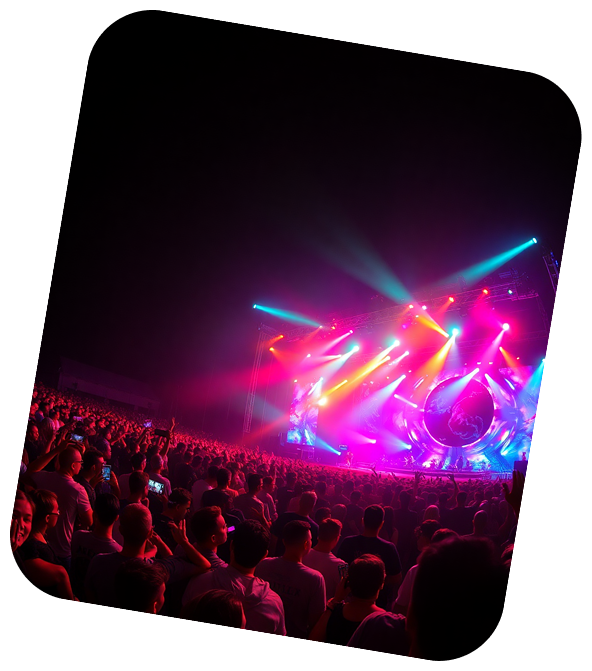
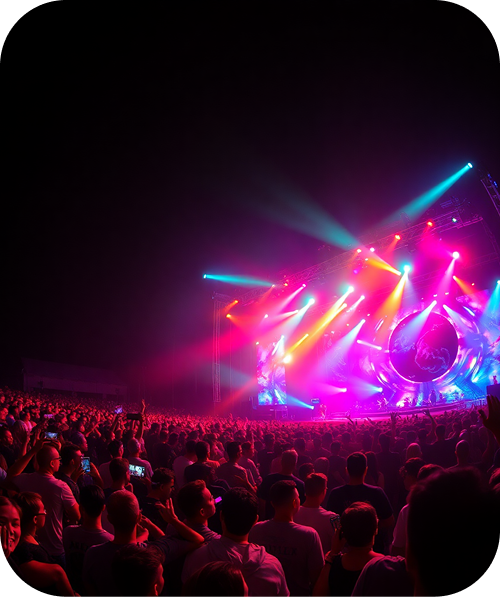
hero

diff --git a/src/pages/home.jsx b/src/pages/home.jsx
@@ -1,6 +1,11 @@
 import React from 'react';
 import "./home.css"
 import Navbar from '../components/navbar';
+import Bluebtn from '../components/bluebtn';
+import heroimg from "../assets/heroimg.png"
+import DecryptedText from "../component/DecryptedText";
+import ill from "../assets/heroill.svg"
+import rec from "../assets/Rectangle 18.svg"
 
 const Home = () => {
     return ( 
@@ -9,9 +14,31 @@ const Home = () => {
 
         <section className="hero">
             <div className="herotxt">
-                <h1>Your Next <span>Adventure</span> Awaits</h1>
+  
+                      <DecryptedText
+                       text="Your Next
+                            Adventure
+                            Awaits"
+                        animateOn="view"
+                        revealDirection="start"
+                        sequential
+                    className="herolabel"
+
+                        useOriginalCharsOnly={false}
+                        />
+                    
                 <p>Book tickets to concerts, festivals, workshops, and cultural events. Join thousands of happy attendees!</p>
-                
+                <div className="herobtns">
+                    <Bluebtn style="blue" txt="Explore Events "/>
+                    <Bluebtn style="grey" txt="How it works "/>
+
+                </div>
+                <img src={rec} alt="" className='rec' />
+
+            </div>
+            <div className="heroimg">
+                <img src={heroimg} alt="" />
+                <img className='ill' src={ill} alt="" />
             </div>
             
         </section>

diff --git a/src/pages/home.css b/src/pages/home.css
@@ -5,11 +5,84 @@
     font-family: "Outfit";
 }
 
-body{
+#root{
     display: flex;
 width: 100%;
 padding-top: 50px;
 flex-direction: column;
 align-items: center;
 gap: 100px;
+overflow-x: hidden;
+}
+
+.hero{
+    display: flex;
+padding: 0 69px;
+justify-content: space-between;
+align-items: center;
+align-self: stretch;
+position: relative;
+width: 100%;
+}
+
+.herotxt{
+    display: flex;
+width: 58%;
+flex-direction: column;
+align-items: flex-start;
+gap: 24px;
+position: relative;
+}
+
+.herolabel{
+    color: #111827;
+font-family: Outfit;
+font-size: 102.369px;
+font-style: normal;
+font-weight: 400;
+line-height: 102.369px; /* 100% */
+letter-spacing: -0.711px;
+}
+
+.herotxt span{
+    color: #2F91F8;
+font-family: Outfit;
+font-size: 102.369px;
+font-style: normal;
+font-weight: 600;
+line-height: 102.369px;
+letter-spacing: -0.711px;
+}
+
+.herotxt p{
+    color: #4B5563;
+font-family: Outfit;
+font-size: 23.865px;
+font-style: normal;
+font-weight: 400;
+line-height: 33.41px; /* 140% */
+letter-spacing: -0.597px;
+}
+.herobtns{
+    display: flex;
+align-items: flex-start;
+gap: 16px;
+}
+.heroimg{
+    position: relative;
+    scale: 0.7;
+    width: 40%;
+}
+
+.ill{
+   position: absolute;
+        left: -165px;
+    z-index: -1;
+    top: -88px;
+    scale: 1.2;
+}
+
+.rec{
+    position: absolute;
+    
 }

diff --git a/src/components/bluebtn.css b/src/components/bluebtn.css
@@ -1,0 +1,61 @@
+*{
+    box-sizing: border-box;
+    padding: 0;
+    margin: 0;
+}
+
+.blue{
+    display: flex;
+padding: 18px 32px 19px 32px;
+justify-content: center;
+align-items: center;
+gap: 11px;
+border-radius: 9999px;
+background: #2F91F8;
+
+}
+
+.blue h3{
+color: #FFF;
+text-align: center;
+font-family: Outfit;
+font-size: 18px;
+font-style: normal;
+font-weight: 400;
+line-height: 28px; /* 155.556% */
+letter-spacing: -0.5px;
+cursor: pointer;
+width: fit-content;
+transition: all 300ms ease;
+}
+
+.blue:hover{
+    transform: translateY(-3px);
+    box-shadow: 0 4px 0 0 #113861;
+}
+.grey{
+    display: flex;
+padding: 18px 32px 19px 32px;
+justify-content: center;
+align-items: center;
+border-radius: 9999px;
+background: #F3F4F6;
+
+
+}
+.grey:hover{
+        transform: translateY(-3px);
+    box-shadow: 0 4px 0 0 #C8F22B;
+}
+
+.grey h3{
+color: #111827;
+text-align: center;
+font-family: Outfit;
+font-size: 18px;
+font-style: normal;
+font-weight: 400;
+line-height: 28px; /* 155.556% */
+letter-spacing: -0.5px;
+transition: all 300ms ease;
+}

diff --git a/src/components/bluebtn.jsx b/src/components/bluebtn.jsx
@@ -1,0 +1,18 @@
+import React from 'react';
+import "./bluebtn.css"
+
+const Bluebtn = (props) => {
+    return (  
+        <>
+        <div className={props.style}>
+            <h3>{props.txt}</h3>
+            <img src={props.icon} alt="" />
+        </div>
+
+        
+        
+        </>
+    );
+}
+ 
+export default Bluebtn;

diff --git a/src/components/navlink.css b/src/components/navlink.css
@@ -14,4 +14,9 @@ a{
     font-weight: 500;
     line-height: 24px; /* 120% */
     letter-spacing: -0.5px;
+    transition: all 300ms ease;
+}
+
+a:hover{
+    font-weight: 700;
 }
